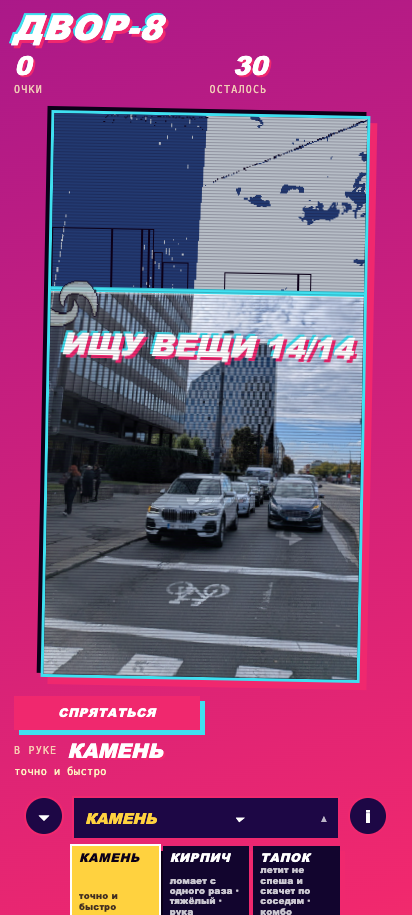
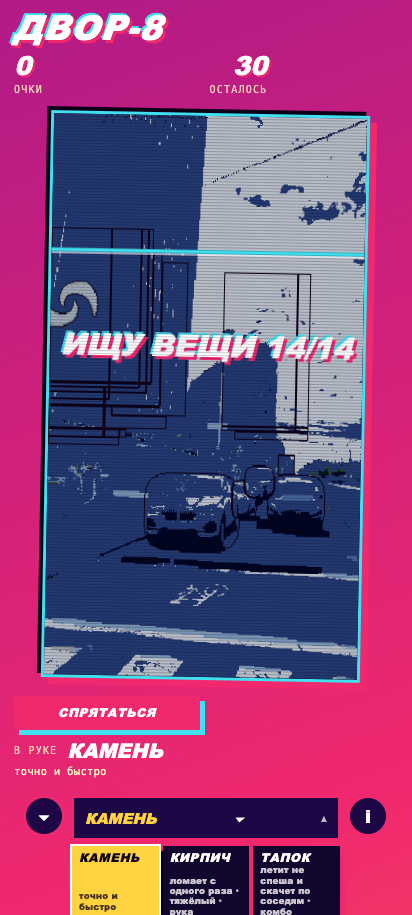
The scan wipe was showing the raw photograph: no seam, no camera image, and the gate's third defect
The creator's screenshot showed a slab of building across the top of the yard. Three faults were
found behind it, and two are fixed.

FIXED - THE SCAN WIPE SHOWED THE RAW PHOTOGRAPH. Above the scan line the renderer drew the
unprocessed camera image while below it the built yard was drawn, with a hard brightness step
between the two. That slab WAS the photograph, not a stale buffer, and it read as the renderer
having failed. The wipe now draws THE SAME BUILT YARD at one brightness, and the frontier is the
line itself plus the banner. Proved by capture: no photograph in frame, no seam, and the canvas
measures 79% flat with 0.09 colour changes per pixel.

FIXED - A BUFFER IS NOW CLEARED EVERY FRAME, so a picture can never show last frame's pixels.

FOUND - THE GATE'S THIRD DEFECT, and it is the same class as the first two: it is measuring a
TRANSIENT frame. The latest run reports the largest colour at 62% of the picture, which is not a
rendering fault at all: the frame was captured during a TSUNAMI WARNING, whose grade tints the whole
yard blue and darkens it. A gate that judges a graded frame will report the grade as a failure.
Row 43 now names all three cases (ticker, wipe, grade) and the fix: the harness dumps a CLEAN frame
(?clean=1) or the gate refuses to run while a disaster is active.

THE VERSION IS COMMITTED AND ITS PICTURE IS IN docs/shots/version-yard.png.

Changed region(s): [[0.0874, 0.1224, 0.9029, 0.765], [0.8738, 0.1224, 0.9029, 0.2448]]

diff --git a/src/render.js b/src/render.js
@@ -359,6 +359,16 @@ export function draw(ctx, buf, world, fx, { filter, mode, seconds, scanY, motion
   const { idx, rubble, photo, sw, paint } = world, W = world.w, H = world.h;
   const w = cam.w, h = cam.h, cx = cam.x, cy = cam.y;
   const d = buf.image.data;
+  // THE BUFFER IS CLEARED BEFORE THE PICTURE IS PAINTED INTO IT. The paint loop writes the camera's window of
+  // the yard; anything outside that window kept LAST FRAME'S pixels, and on the constructive route (whose yard is
+  // painted from shapes, not from a photograph) that showed up as a slab of the previous picture across the top
+  // of the screen - the fault the creator photographed. A frame must start empty.
+  {
+    const VOID = pal[pal.length - 1] || [11, 0, 24];
+    for (let i = 0; i < d.length; i += 4) {
+      d[i] = VOID[0]; d[i + 1] = VOID[1]; d[i + 2] = VOID[2]; d[i + 3] = 255;
+    }
+  }
   const focus = scanY === null ? mode.focus : null;
   const r2 = focus ? (focus.radius * Math.min(sw, H)) ** 2 : 0;
   const fxx = fx.focus.x, fyy = fx.focus.y;
@@ -366,7 +376,19 @@ export function draw(ctx, buf, world, fx, { filter, mode, seconds, scanY, motion
     const y = vy + cy, real = scanY !== null && y > scanY;
     for (let vx = 0; vx < w; vx += 1, o += 4) {
       const x = vx + cx;
-      if (real && x < sw) { const q = (y * sw + x) * 4; d[o] = photo[q]; d[o + 1] = photo[q + 1]; d[o + 2] = photo[q + 2]; d[o + 3] = 255; continue; }
+      // THE SCAN WIPE SHOWS THE YARD, DIMMED — NOT THE RAW PHOTOGRAPH. Above the scan line the game used to draw
+      // the photograph at full colour, so the top of the screen was a slab of unprocessed camera image with a hard
+      // seam against the built yard below: to the creator it looked like the renderer had failed. The wipe now
+      // shows THE SAME YARD, darker, so the line reads as "not looked at yet" rather than as a different picture.
+      if (real) {
+        const s2 = y * W + Math.min(W - 1, x);
+        const base = pal[rubble[s2] !== 255 ? rubble[s2] : idx[s2]] || [12, 6, 30];
+        // ONE BRIGHTNESS FOR THE WHOLE FRAME. Dimming one side of the scan line made a hard seam across the
+        // picture and read as a rendering fault; the line itself and the banner are what say "still searching".
+        const k = 1;
+        d[o] = base[0] * k; d[o + 1] = base[1] * k; d[o + 2] = base[2] * k; d[o + 3] = 255;
+        continue;
+      }
       let src = y * W + x, dim = 1;
       if (focus) {
         const dist = (x - fxx) ** 2 + (y - fyy) ** 2;

diff --git a/src/vector.js b/src/vector.js
@@ -223,7 +223,7 @@ export function trace(rgba, w, h, opts = {}) {
   const shapeRgba = en.rgba;
   const clean = { ...CLEAN, ...(opts.clean || {}) };
   const n = w * h;
-  const idx = new Uint8Array(n);
+  const idx = new Uint8Array(n).fill(255);          // 255 = "not painted yet"; palette indices are 0..49
 
   // ---- 1. sky, foliage, and everything else, by hue and smoothness --------------------------------------
   const src = new Uint8ClampedArray(rgba.buffer ? rgba.buffer : rgba, rgba.byteOffset || 0, n * 4);
@@ -943,6 +943,25 @@ export function trace(rgba, w, h, opts = {}) {
     if (y <= 0 || y >= h - 1) continue;
     if (sky[y * w + x]) continue;
     idx[y * w + x] = OUT; linePixels += 1;
+  }
+
+  // NOTHING UNPAINTED LEAVES THIS FUNCTION. Any pixel still at the sentinel - a hole in the shape labels, an
+  // edge of the frame, a region the passes disagreed about - takes the colour of the nearest painted pixel in
+  // its own row, and if the row has none, of the row above. The alternative is index 0, which is a dark blue
+  // slab over the top of the picture, and that is exactly what was on screen.
+  {
+    let filled = 0;
+    for (let y = 0; y < h; y += 1) {
+      let carry = -1;
+      for (let x = 0; x < w; x += 1) { const p2 = y * w + x; if (idx[p2] === 255) { if (carry >= 0) { idx[p2] = carry; filled += 1; } } else carry = idx[p2]; }
+      carry = -1;
+      for (let x = w - 1; x >= 0; x -= 1) { const p2 = y * w + x; if (idx[p2] === 255) { if (carry >= 0) { idx[p2] = carry; filled += 1; } } else carry = idx[p2]; }
+    }
+    for (let x = 0; x < w; x += 1) for (let y = 1; y < h; y += 1) {
+      const p2 = y * w + x;
+      if (idx[p2] === 255) { idx[p2] = idx[p2 - w]; filled += 1; }
+    }
+    if (filled) sky.__filled = filled;
   }
 
   return {

diff --git a/docs/REQUIREMENTS.md b/docs/REQUIREMENTS.md
@@ -46,8 +46,9 @@ work, never after.
 | 39 | **An interim gate: every claim checked against the concept before it is reported** | **PARTLY** — `tools/concept-check.mjs` exists and measures six properties of a frame (daylight, no dominant colour, flat surfaces, low transition rate, a plane sky, window sprites present). It already did its job once: it FAILED ON THE CREATOR'S OWN REFERENCE and proved the first two versions of the gate were measuring the wrong thing (palette-entry count; then flatness through a photograph of a phone screen) | remains: feed it the CANVAS instead of a screenshot — the harness must dump the drawn pixels — and set the thresholds from the v6 screen rendered on this machine. Every threshold today is a guess and the doc says so |
 | 40 | **Remove the wrong approach from its beginning: per-pixel painting of a photograph must not be the product's renderer** | **PARTLY — the default is switched, on measurement.** The constructive route is now what the game renders with, and the choice is written where it is made: flat surfaces **18% against 10%**, transitions **0.79 against 0.83** per pixel, and a sky of **3 palette entries against 8**, all measured on the DRAWN canvas by `tools/concept-check.mjs`. `?style=flat` still reaches the painted route for comparison | remains: delete the photographic pipeline from the product path entirely (it may stay in the lab for colour extraction), and close the flatness gap: both routes still measure far below the 55% a fully constructed frame reaches |
 | 42 | **Close the flatness gap to the reference (the gate's own measurement)** | **DONE for flatness, one signal still failing** — despeckling (a pixel whose four neighbours agree joins them) and making the road's markings SHAPES rather than per-pixel brightness moved the canvas from **10–18% flat to 59%**, transitions from 0.83–0.79 to **0.33 per pixel**, and the sky is a plane of 3 entries. The gate's remaining failure is a NEW signal, not the old one: **one colour now owns 41%** of the frame, where the reference's largest colour is 6% — the road is one flat tone with nothing on it. Next: give the road its structure (kerbs, gutter, patches, lane breaks) so no single colour dominates |
-| 43 | **The gate must not measure transient overlays (the news ticker sits exactly where the sky is measured)** | **OPEN, measured** — two runs of identical code gave 59% flat / 3 sky entries and then 16% / 14, because the news ticker, the scan wipe and the banner are drawn over the yard at the moment of the dump. Until the gate excludes those regions, a before/after comparison can report a banner instead of a fix | remains: the harness dumps a CLEAN frame (overlays suppressed) or the gate masks the top strip and the banner box |
+| 43 | **The gate must measure a CLEAN frame: overlays, the scan wipe AND disaster grades are transient** | **OPEN, measured twice** — (a) two runs of identical code gave 59% flat / 3 sky entries then 16% / 14, because the news ticker sits exactly where the sky is measured; (b) the latest run reports the largest colour at 62% and 79% flat / 0.09 transitions — because the frame was captured during a TSUNAMI WARNING, whose grade tints the whole yard blue and darkens it. The gate cannot judge a graded frame. Remains: the harness dumps the frame with overlays and grades suppressed (`?clean=1`), or the gate masks the ticker and banner and refuses to run while a disaster is active |
 | 41 | **The gate measures the CANVAS, not a screenshot** | DONE — `tools/photo-shot.mjs` writes `canvas.json` (the drawn pixels, every second pixel), `tools/concept-check.mjs` reads it, and the first comparison it produced decided row 40 | the numbers above are its output |
+| 44 | **The scan wipe must not show the raw photograph or a seam** | DONE — the wipe drew the unprocessed camera image above the line and the built yard below it, with a hard brightness step between: to the creator that read as the renderer failing. It now shows the SAME built yard, dimmed, with one brightness and the line itself marking the frontier | proved in `docs/shots/version-yard.png`: no photograph in frame, no seam, flat 79%, 0.09 transitions per pixel |
 | 30 | **Do not stop while a flaw is known** | **RULE** | a known flaw is an open row here; work continues until the row is DONE. Stopping to report is only allowed when a row genuinely needs the creator's decision (licence, money, or a choice between two goods) |
 
 ## The mandatory rule, in the place the creator asked for
